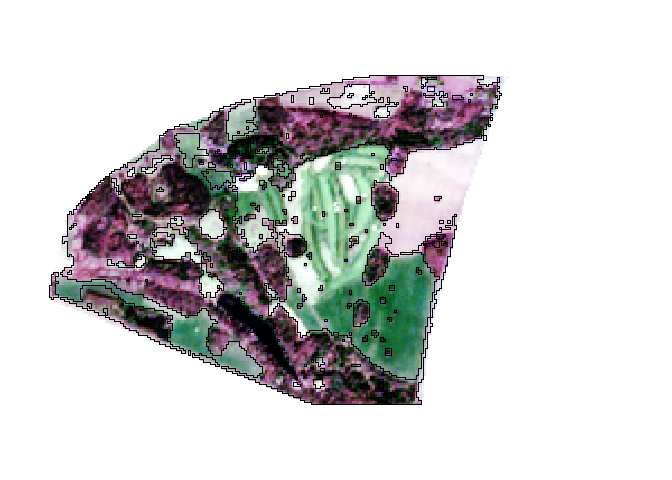
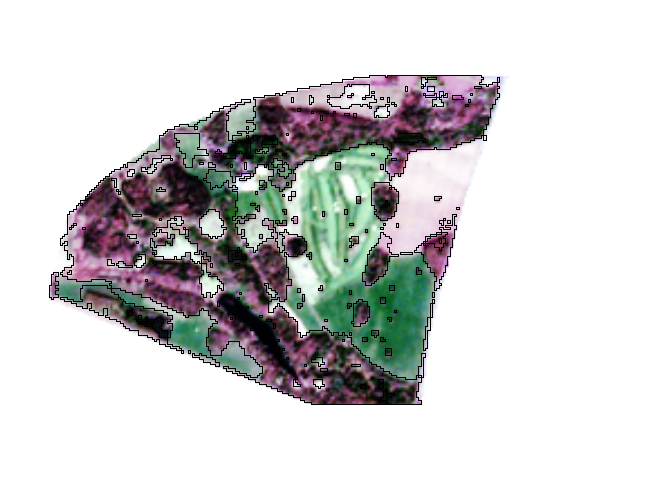
update readme

diff --git a/README.md b/README.md
@@ -44,9 +44,14 @@ pixel_df <- extract_pixels(example_img, example_polys)
 # This will run 5 different train test splits,
 # then train `randomForest` (default) on training set
 # and report different accuracy metrics against the testing set
-classif_train_test(pixel_df)
+classif_train_test(pixel_df, classifier = "random_forest")
 
-# If happy with metrics then can proceed to train a randomForest
+# A custom maximum likelihood classifier was created in the package
+# This is generally less accurate than random forest, but can easily
+# compare with the same training data
+classif_train_test(pixel_df, classifier = "maximum_likelihood")
+
+# If happy with RF metrics then can proceed to train a randomForest
 rf <- pixel_df |>
   train_test_split() |>
   features_labels_select() |>
@@ -58,15 +63,14 @@ example_img <- terra::mask(example_img, mask_poly)
 # Use the trained model to predict a whole image
 pred_img <- terra::predict(example_img, rf, na.rm = TRUE)
 
-
-
-pred_features <- sf::st_as_sf(terra::as.polygons(pred_img, dissolve=TRUE)) |>
+# Convert the classified image to polygons
+pred_features <- sf::st_as_sf(terra::as.polygons(pred_img, dissolve = TRUE)) |>
   subset(class == 1) |>
   sf::st_cast("POLYGON")
 
 # Plot rgb version of raster and prediction polys with red outline
-terra::plotRGB(example_img, stretch = "hist", r=3, g=2, b=1)
-terra::plot(pred_features, color="black", add=TRUE)
+terra::plotRGB(example_img, stretch = "hist", r = 3, g = 2, b = 1)
+terra::plot(pred_features, color = "black", add = TRUE)
 ```
 
 <img src="man/figures/README-example-1.png" width="100%" />
